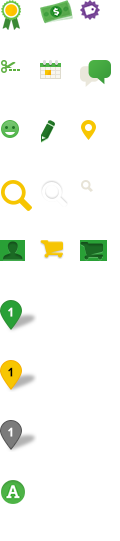
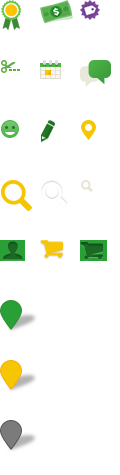
Finalized Maps, The Basics.

diff --git a/assets/css/angies.css b/assets/css/angies.css
@@ -54,6 +54,38 @@ img.deal-large {
   -moz-box-shadow: 0px 2px 2px #ebebe7;
   box-shadow: 0px 2px 2px #ebebe7;
 }
+.marker {
+  position: relative;
+  display: inline-block;
+  width: 40px;
+  height: 35px;
+  background: transparent url(../img/icon-set.png) no-repeat 0 -300px;
+}
+.marker b {
+  position: absolute;
+  top: 0;
+  left: 0;
+  display: inline-block;
+  width: 22px;
+  color: #fff;
+  font-size: 13px;
+  font-style: normal;
+  font-weight: 600;
+  line-height: 25px;
+  text-align: center;
+}
+.marker.highlight {
+  background-position-y: -360px;
+}
+.marker.highlight b {
+  color: #000;
+}
+.marker.secondary {
+  background-position-y: -420px;
+}
+.marker.map-review {
+  background-position-y: -480px;
+}
 /* General */
 .mb-0 {
   margin-bottom: 0;
@@ -212,6 +244,14 @@ code.no-bg {
 .docs-image img {
   float: left;
   margin-right: 20px;
+}
+.docs-custom-pin table td:first-child {
+  width: 150px;
+  text-align: center;
+}
+.docs-custom-pin .grade {
+  float: none;
+  margin: 0 0 0 53px;
 }
 .left-caret,
 .right-caret {
@@ -1242,54 +1282,6 @@ ul.list-search .category-heading {
   margin-bottom: 5px;
   font-size: 17px;
   color: #29a036;
-}
-.thumbnail {
-  border: 1px solid #e8e6dd;
-  padding: 0;
-  width: 300px;
-  height: 198px;
-  -webkit-box-shadow: 0px 2px 2px #ebebe7;
-  -moz-box-shadow: 0px 2px 2px #ebebe7;
-  box-shadow: 0px 2px 2px #ebebe7;
-}
-.thumbnail.medium {
-  width: 194px;
-  height: 128px;
-}
-.thumbnail.small {
-  width: 140px;
-  height: 92px;
-}
-.thumbnail.deal {
-  -webkit-border-radius: 6px;
-  -moz-border-radius: 6px;
-  border-radius: 6px;
-}
-.thumbnail.deal.large {
-  width: 200px;
-  height: 200px;
-}
-.thumbnail.deal.small {
-  width: 120px;
-  height: 120px;
-}
-.marker {
-  width: 115px;
-  height: 34px;
-  background-image: url(../img/icon-set.png);
-  background-repeat: no-repeat;
-}
-.marker.green {
-  background-position: 50px -300px;
-}
-.marker.yellow {
-  background-position: 50px -360px;
-}
-.marker.gray {
-  background-position: 50px -420px;
-}
-.marker.map-review {
-  background-position: 50px -480px;
 }
 .review-count {
   text-align: right;

diff --git a/less/angies.less b/less/angies.less
@@ -149,7 +149,7 @@ code.no-bg {
 @inputBackgroundColorDisabled: #f8f6ef;
 
 
-// Layout for images, Components tab.
+// Layout for Images, Components tab.
 .docs-image {
 	.clearfix();
 	margin: 0 0 30px;
@@ -157,6 +157,21 @@ code.no-bg {
 	img {
 		float: left;
 		margin-right: 20px;
+	}
+}
+
+// Layout for Maps, Components tab.
+.docs-custom-pin {
+	
+	table td:first-child {
+		width: 150px;
+		text-align: center;
+	}
+	
+	// Unfloat.
+	.grade {
+		float: none;
+		margin: 0 0 0 53px;
 	}
 }
 
@@ -1387,58 +1402,6 @@ ul.list-search {
 		margin-bottom: 5px;
 		font-size: 17px;
 		color: @angiesGreen;
-	}
-}
-
-// ===== Components ==== //
-
-.thumbnail {
-	border: 1px solid #e8e6dd;
-	padding: 0;
-	width: 300px;
-	height: 198px;
-	.box-shadow(0px 2px 2px rgba(235, 235, 231, 1));
-	
-	&.medium {
-		.size(128px, 194px);
-	}
-	
-	&.small {
-		.size(92px, 140px);
-	}
-	
-	&.deal {
-		.border-radius(6px);
-		
-		&.large {
-			.square(200px);
-		}
-		
-		&.small {
-			.square(120px);
-		}
-	}
-} // .thumbnail
-
-.marker {
-	.size(34px, 115px);
-	background-image: url(../img/icon-set.png);
-	background-repeat: no-repeat;
-
-	&.green {
-		background-position: 50px -300px;
-	}
-	
-	&.yellow {
-		background-position: 50px -360px;
-	}
-	
-	&.gray {
-		background-position: 50px -420px;
-	}
-	
-	&.map-review {
-		background-position: 50px -480px;
 	}
 }
 

diff --git a/less/angies-components.less b/less/angies-components.less
@@ -21,3 +21,47 @@ img.deal-large {
 	.border-radius(6px);
 	.box-shadow(0px 2px 2px rgba(235, 235, 231, 1));
 }
+
+
+// ------------------------------------------------
+//
+// Custom pins.
+//
+// ------------------------------------------------
+
+.marker {
+	position: relative;
+	display: inline-block;
+	.size(35px, 40px);
+	background: transparent url(../img/icon-set.png) no-repeat 0 -300px;	
+	
+	b {
+		position: absolute;
+		top: 0;
+		left: 0;
+		display: inline-block;
+		width: 22px;
+		color: #fff;
+		font-size: 13px;
+		font-style: normal;
+		font-weight: 600;
+		line-height: 25px;
+		text-align: center;
+	}		
+	
+	&.highlight {		
+		background-position-y: -360px;
+		
+		b {
+			color: #000;
+		}
+	}
+	
+	&.secondary {
+		background-position-y: -420px;
+	}
+	
+	&.map-review {
+		background-position-y: -480px;
+	}
+}

diff --git a/components.php b/components.php
@@ -312,7 +312,8 @@ page_open();
 		</div>
 
 		<h3>Custom pins</h3>
-		<table class="table table-bordered table-striped map">
+		<div class="docs-custom-pin">
+		<table class="table table-bordered table-striped">			
             <thead>
               <tr>
                 <th>Image</th>
@@ -321,38 +322,43 @@ page_open();
             </thead>
             <tbody>
               <tr>
-                <td><div class="marker green"></div></td>
+                <td><mark class="marker"><b>1</b></mark></td>
                 <td align="left">Map marker for search results</td>
               </tr>
               <tr>
-                <td><div class="marker yellow"></div></td>
+                <td><mark class="marker highlight"><b>1</b></mark></td>
                 <td>Highlight state for map marker</td>
               </tr>
               <tr>
-                <td><div class="marker gray"></div></td>
+                <td><mark class="marker secondary"><b>1</b></mark></td>
                 <td>Secondary map marker</td>
               </tr>
               <tr>
-                <td><div class="marker map-review"></div></td>
+                <td><span class="grade sm a">A</span></td>
                 <td>Use smallest size grade icons (24 px) to display reviews on the map</td>
               </tr>
             </tbody>
         </table>
+		</div>
 		
 		<hr class="bs-docs-separator" />
 		
 		<h3>Basic map - integration with Google Maps</h3>
-		<img src="/assets/img/maps.png" />
+		<img src="./assets/img/maps.png" />
 		
 		<hr class="bs-docs-separator" />
 		
 		<h3>Service Map</h3>
 		<div class="row">
 			<div class="span3">
-				<img src="/assets/img/maps.png" />
+				<img src="./assets/img/maps.png" />
 			</div>
-			<div class="span3">
-				<p class="info-inline"><strong>Service area overlay</strong> <br /> #4db346 (Lighter Green) 30% opacity</p>
+			<div class="span6">
+				<p class="info-inline" style="margin-top: 30px;">
+					<strong>Service area overlay</strong><br>
+					#4db346 (Lighter Green)<br>
+					30% opacity
+				</p>
 			</div>
 		</div>
 		
